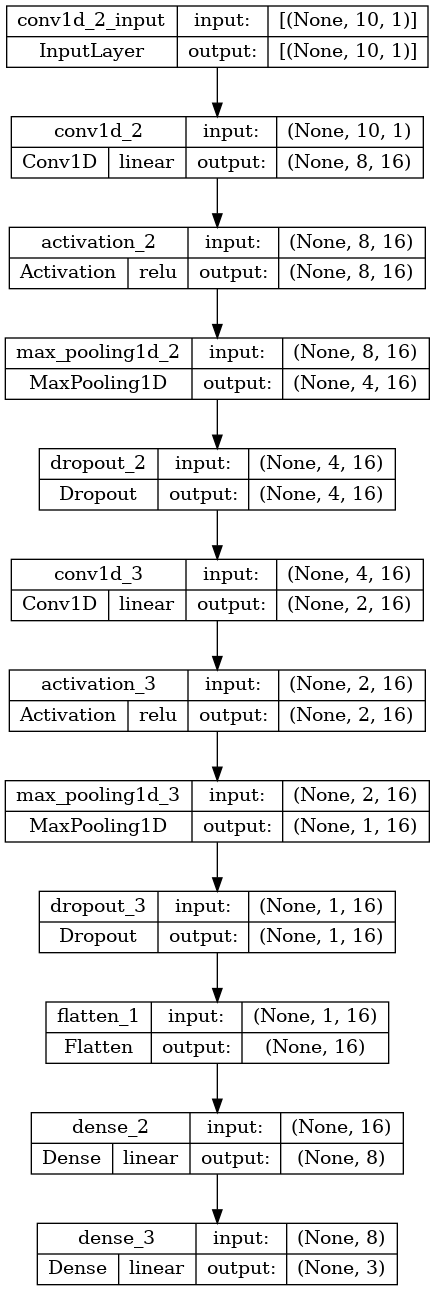
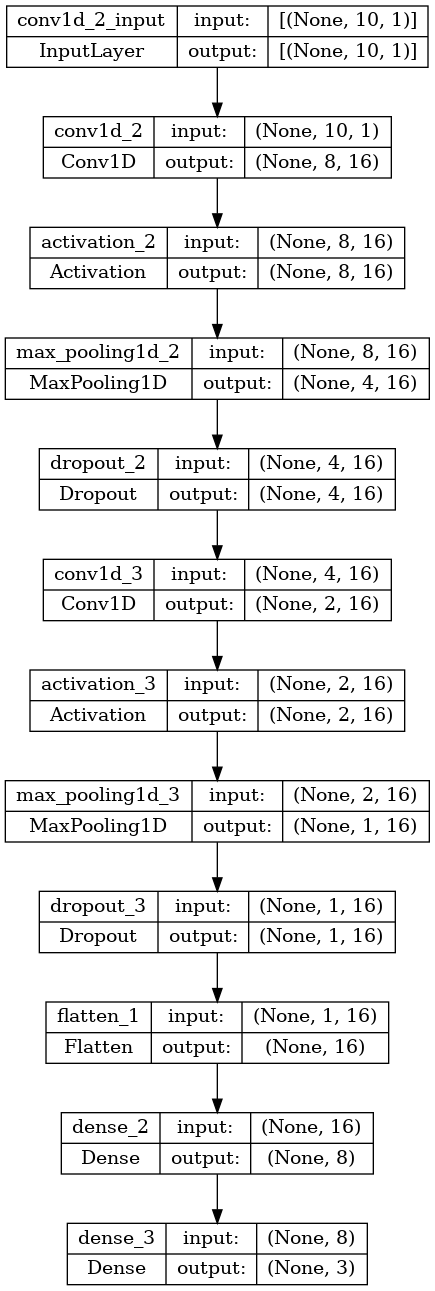
7.1 COMMIT!!

diff --git a/agent/agent.py b/agent/agent.py
@@ -78,7 +78,7 @@ class Agent:
     
         model.compile(loss="mse", optimizer=Adam(learning_rate=0.001), metrics=['accuracy'])
         model.summary()
-        plot_model(model, to_file='graphs/model.png', show_shapes=True, show_layer_names=True, show_layer_activations=True)
+        plot_model(model, to_file='graphs/model.png', show_shapes=True, show_layer_names=True)
         return model
     
     def update_replay_memory(self, transition):
